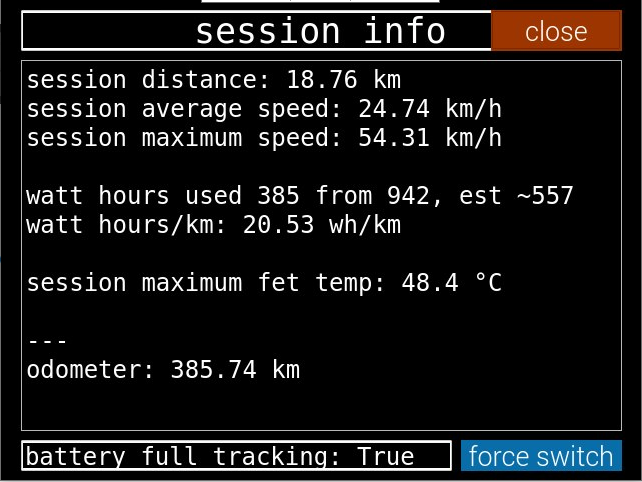
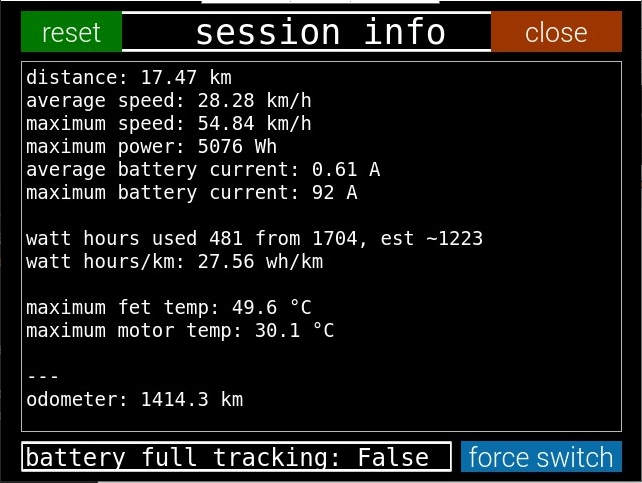
update readme to latest updates

diff --git a/README.ru.md b/README.ru.md
@@ -16,7 +16,9 @@ https://youtu.be/2bIfX92aeMQ
 - Быстрое отображение текущих данных тока и скорости
 - Отображение графика по скорости и мощности
 - Сохранение суммарного пробера
+- Подсчет параметров сессии (средняя скорость, максимальная, затраченные ватты, и т.д.)
 - Несколько индикаторов энергоэффективности (таких как Ватт/Км, моментальный Ватт/Км)
+- Режим speedlogic с максимальной частотой обновления для измерения разгона 0-40, 0-50, 0-60, 0-70
 - Полностью поддерживает (и разрабатывался под) двухконтроллерные конфигурации VESC по CAN
 
 ## Архитектурные особенности
@@ -95,17 +97,13 @@ chown -R $SUDO_USER:$SUDO_USER /home/$SUDO_USER/.config/autostart
 Готово!
 
 ## Первоначальная настройка
-После первого запуска, если вы используете двухконтроллерную версию, у вас будет информация только об одном ESC. Чтобы настроить отображение данных со второго, потребуется найти ESC-ID.
+После первого запуска, если вы используете DualESC, у вас будет информация только об одном ESC, также не будет корректно отображаться скорость и некоторые другие параметры.
+Убедитесь, что на локально подключенном ESC правильно заданы опции `MotorCFG` -> `AdditionalInfo`: `MotorPoles`, `WheelDiameter`, `BatteryCells`, `BatteryCapacity`.
 
-Идентификатор локально подключенного ESC можно просмотреть, нажав на плашку `UART` вверху, пункт `local controller id`.
-Идентификатор подключенного CAN ESC можно просмотреть в VescTool. 
-После того как идентификатор второго ESC известен, перейдите в настройки (значок в левом верхнем углу) и установите пункт `esc_b_id`.
+Затем загрузите эти настройки из ESC через опцию `get configuration from vesc` в настройках.
+Одноименные опции в настройках и `esc_b_id` должны синхронизироваться.
 
-После правильной настройки вы должны увидеть обновления параметров с обоих ESC.
-При необходимости сменить местами ESC можно с помощью опции `switch_a_b_esc`.
-
-Для правильного отображения скорости и работы функции отслеживания заряда батареи необходимо задать правильные параметры параметров `battery_mah`, `battery_cells`, `motor_magnets` и `wheel_diameter`.
-Если эти параметры правильно заданы в ESC, вы можете получить эти параметры с помощью кнопки ESC `get battery and motor from vesc` в настройках (функция поддерживается только в fw 5.02).
+Если у вас используется неподдерживаемая VESC FW, то опция `get configuration from vesc` работать не будет, параметры нужно будет установить вручную.
 
 ## Запуск в тестовом режиме через TCP
 Если ваш контроллер имеет Bluetooth модуль, благодаря поддержке tcp транспорта `vesc-uart`, вы можете проверить функциональность без подключения к serial порту ESC.
@@ -128,9 +126,11 @@ chown -R $SUDO_USER:$SUDO_USER /home/$SUDO_USER/.config/autostart
 | ------ | ------ |
 | delay_update_ms | Пауза в миллисекундах между обновлениями в основном потоке получения информации. Можете увеличить, если вы хотите снизить нагрузку на устройство или ESC за счет уменьшения количества запросов |
 | delay_chart_update_ms | Пауза в миллисекундах между обновлениями графика в GUI |
-| chart_power_points | Количество точек графика мощности. Чем больше точек - тем больший интервал времени отображается на графике |
-| chart_speed_points | Количество точек графика скорости. |
-| wh_km_nsec_calc_interval | Интервал обновления индикатора wh_km_nsec, в секундах |
+| chart_points | Количество точек графика. Чем больше точек - тем больший интервал времени отображается на графике |
+| chart_pcurrent_insteadof_power | Отображать на графике вместо мощности (W) значения суммарного фазного тока (PC) |
+| nsec_calc_count | Количество состояний, хранимых функцией подсчета значений NSec, выставляется исходя из UpdatesPerSeconds |
+| use_gui_lite | Использовать упрощенный интерфейс |
+| mtemp_insteadof_load | Отображать температуру мотора (MT) вместо загрузки контроллера (L). Установите 1, если у вас подключен датчик температуры мотора |
 | hw_controller_current_limit | Фазный ток, объявленный вашим производителем ESC как максимальный. Это влияет только на расчет нагрузки (L) в статистике ESC |
 | switch_a_b_esc | Эта опция поменяет местами отображение ESC в главном окне |
 | esc_b_id | При использовании режима двухконтроллерной конфигурации потребуется установить ID второго ESC |

diff --git a/README.md b/README.md
@@ -16,7 +16,9 @@ https://youtu.be/2bIfX92aeMQ
 - Fast display of current speed and current data
 - Displaying a graph by speed and power
 - Saves the total distance (odometer)
+- Calculation of the parameters of the session (average speed, maximum, watts, etc.)
 - Has several indicators of consumption efficiency (eg. WhKm, WhKmH)
+- Speedlogic mode with a maximum refresh rate for measuring acceleration 0-40, 0-50, 0-60, 0-70
 - Fully supports (and designed for) Dual-ESC mode
 
 ## Architectural features
@@ -95,15 +97,13 @@ chown -R $SUDO_USER:$SUDO_USER /home/$SUDO_USER/.config/autostart
 Enjoy!
 
 ## Setting up parameters
-After the first launch, if you use Dual-ESC, you will have information about only one ESC. To configure the display of data from the second one, first determine its ESC-ID.
+After the first launch, if you use DualESC, you will have information about only one ESC, and the speed and some other parameters will not be displayed correctly.
+Make sure that the options `MotorCFG` -> `AdditionalInfo` are correctly set on the locally connected ESC: `MotorPoles`, `WheelDiameter`, `BatteryCells`, `BatteryCapacity`.
 
-The ID of the locally connected ESC can be viewed by clicking on the `UART` label at the top, item `local controller id`.
-The ID of the connected CAN ESC can be viewed in VescTool. After the ESC ID is known, go to the settings (the icon in the corner on the top left) and set the `esc_b_id` item
+Then load these settings from ESC via the `get configuration from vesc` option in the settings.
+The options of the same name in the settings and `esc_b_id` should be synchronized.
 
-After the correct configuration, you should see the parameter updates from both ESC.
-
-For the correct display of the speed, the operation of the "battery tracking" function, it is necessary to set the correct parameters of the `battery_mah`, `battery_cells`, `motor_magnets`, and `wheel_diameter` options. 
-If these options are set correctly in ESC, you can get these parameters from the ESC `get battery and motor from vesc` button in settings (supports only fw version 5.02).
+If you use an unsupported VESC FW, the `get configuration from vesc` option will not work, the parameters will need to be set manually.
 
 ## Running in test mode via TCP
 If your ESC has a Bluetooth module, thanks to the support of the `vesc-uart` tcp transport, you can test the functionality without connecting to the ESC serial port.
@@ -126,9 +126,11 @@ Options and their descriptions:
 | ------ | ------ |
 | delay_update_ms | Pause in milliseconds between updates in the main thread of receiving information. It may be necessary if you want to reduce the load on the device or ESC by reducing the number of requests |
 | delay_chart_update_ms | Pause in milliseconds between graph updates in the GUI |
-| chart_power_points | The number of power graph points. The more points - the more time interval is displayed on the graph |
-| chart_speed_points | The number of speed graph points. |
-| wh_km_nsec_calc_interval | The update interval of the wh_km_nsec indicator, in seconds |
+| chart_points | The number of points on the graph. The more points there are, the longer the time interval is displayed on the graph |
+| chart_pcurrent_insteadof_power | Display the values of the total phase current (PC) on the graph instead of the power (W) |
+| nsec_calc_count | The number of states stored by the NSec calculation function is set based on UpdatesPerSeconds |
+| use_gui_lite | Use a simplified interface |
+| mtemp_insteadof_load | Display the motor temperature (MT) instead of loading the controller (L). Set 1 if you have a motor temperature sensor connected |
 | hw_controller_current_limit | The current parameter that is declared by your ESC manufacturer as the maximum. It only affects the calculation of the Load (L) point in the ESC statistics |
 | switch_a_b_esc | This option will reverse the display of ESC in the main window |
 | esc_b_id | When using Dual-ESC mode, it will require setting the ID of the second ESC |
